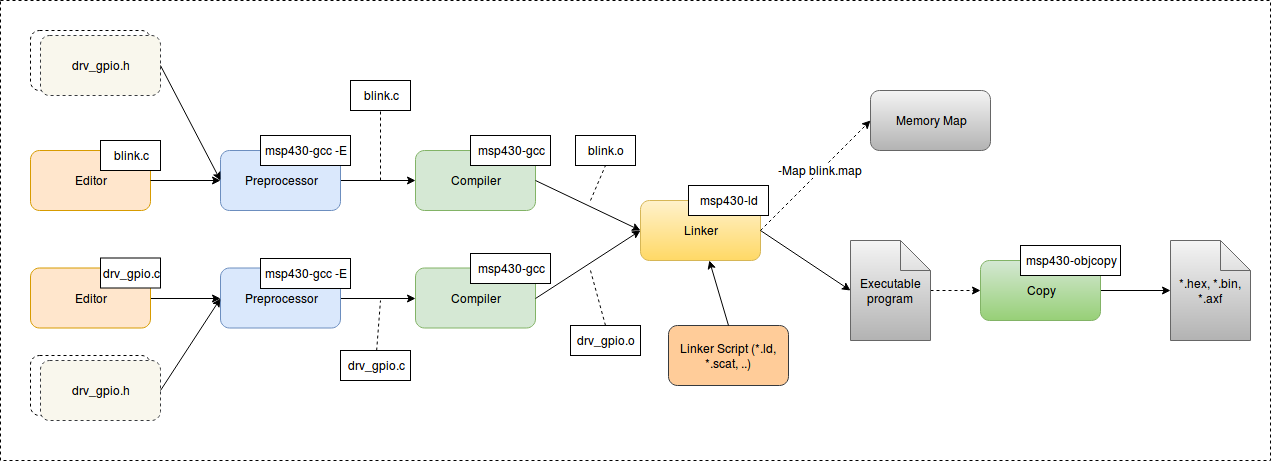
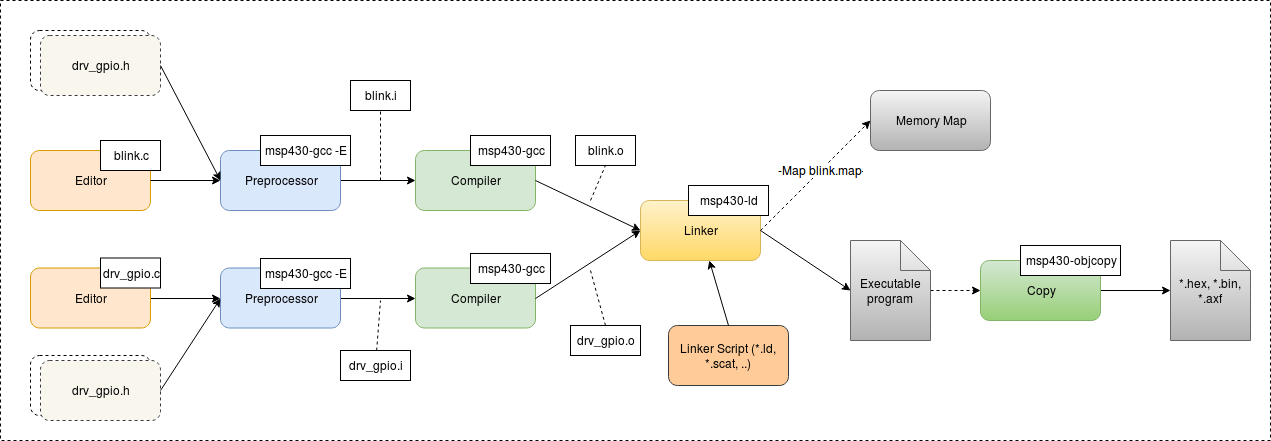
update post

diff --git a/docs/_posts/2018-07-19-compilation-process.md b/docs/_posts/2018-07-19-compilation-process.md
@@ -6,7 +6,7 @@ author: "Nhi Pham"
 
 Understanding the compilation process is helpful for us to analyze and detect the problem with ease in compilation process.
 
-The compilation process is the important things for a beginner in microcontroller programming. Some people don't understand clearly it, that results in they can't fix a problem from the compiling time.
+The compilation process is the important things for a beginner in microcontroller programming. Some people don't understand it with clarify, that results in they can't fix a problem from the compiling time.
 
 ![Compilation process](https://raw.githubusercontent.com/nhivp/msp430-gcc/master/docs/assets/img/compilation_process.png "Compilation process")
 
@@ -19,6 +19,309 @@ The above figure illustrate the compilation process of a simple blinky program.
 └── drv_gpio.h
 ```
 
-To compile the program, the compiler will prefrom the preprocessor step by command ```msp430-gcc -E blink.c``` and ```msp430-gcc -E drv_gpio.c``` (The compiling options for the target are ignored, you only focus on the main command for the compilation process).
+The following is the blink.c program:
+
+```c
+#include <msp430g2553.h>
+
+void main(void)
+{
+    WDTCTL = WDTPW | WDTHOLD;        /* Stop watchdog timer */
+    P1DIR |= 0x40;                   /* Set P1.6 to output direction */
+
+    for(;;)
+    {
+        P1OUT ^= 0x40;                /* Toggle P1.6 using exclusive-OR */
+
+        /* Wait for 200000 cycles */
+        __delay_cycles(200000);
+    }
+}
+```
+
+To compile the program, the compiler will prefrom the preprocessor stage by command ```msp430-gcc -E blink.c -o blink.i``` (The compiling options for the target are ignored, you only focus on the main command for the compilation process).
+
+The output is in the form of preprocessed source code, which is sent to the standard output.
+
+```shell
+nhivp@nhipham:~/mcu/msp430-gcc/demo/blinky/src$ msp430-gcc -E blink.c -o blink.i
+nhivp@nhipham:~/mcu/msp430-gcc/demo/blinky/src$ ll
+total 24
+drwxrwxr-x 2 nhivp nhivp 4096 Th07 22 16:59 ./
+drwxrwxr-x 4 nhivp nhivp 4096 Th07 22 15:24 ../
+-rw-rw-r-- 1 nhivp nhivp  596 Th07 19 21:37 blink.c
+-rw-rw-r-- 1 nhivp nhivp 8719 Th07 22 16:59 blink.i
+```
+
+```c
+# 1 "blink.c"
+# 1 "<built-in>"
+# 1 "<command-line>"
+# 1 "blink.c"
+
+
+# 1 "/usr/lib/gcc/msp430/4.6.3/../../../../msp430/include/msp430g2553.h" 1 3
+# 58 "/usr/lib/gcc/msp430/4.6.3/../../../../msp430/include/msp430g2553.h" 3
+# 1 "/usr/lib/gcc/msp430/4.6.3/../../../../msp430/include/iomacros.h" 1 3
+# 59 "/usr/lib/gcc/msp430/4.6.3/../../../../msp430/include/msp430g2553.h" 2 3
+# 112 "/usr/lib/gcc/msp430/4.6.3/../../../../msp430/include/msp430g2553.h" 3
+# 1 "/usr/lib/gcc/msp430/4.6.3/../../../../msp430/include/in430.h" 1 3
+
+
+
+# 1 "/usr/lib/gcc/msp430/4.6.3/../../../../msp430/include/intrinsics.h" 1 3
+# 47 "/usr/lib/gcc/msp430/4.6.3/../../../../msp430/include/intrinsics.h" 3
+void __nop (void);
+
+void __dint (void);
+
+void __eint (void);
+
+unsigned int __read_status_register (void);
+
+typedef unsigned int __istate_t;
+
+__istate_t __get_interrupt_state (void);
+
+void __write_status_register (unsigned int sr);
+
+void __set_interrupt_state (__istate_t sv);
+
+void *__read_stack_pointer (void);
+
+void __write_stack_pointer (void *sp);
+
+void __bic_status_register (unsigned int bits);
+
+void __bis_status_register (unsigned int bits);
+
+void __bic_status_register_on_exit (unsigned int bits);
+
+void __bis_status_register_on_exit (unsigned int bits);
+
+void *__builtin_frame_address (unsigned int level);
+
+
+void *__builtin_return_address (unsigned int level);
+
+
+
+void __delay_cycles (unsigned long int delay);
+
+unsigned int __swap_bytes (unsigned int v);
+
+unsigned int __get_watchdog_clear_value ();
+
+void __set_watchdog_clear_value (unsigned int v);
+
+void __watchdog_clear ();
+# 5 "/usr/lib/gcc/msp430/4.6.3/../../../../msp430/include/in430.h" 2 3
+# 113 "/usr/lib/gcc/msp430/4.6.3/../../../../msp430/include/msp430g2553.h" 2 3
+# 135 "/usr/lib/gcc/msp430/4.6.3/../../../../msp430/include/msp430g2553.h" 3
+extern volatile unsigned char IE1 __asm__("__" "IE1");
+
+extern volatile unsigned char IFG1 __asm__("__" "IFG1");
+
+extern volatile unsigned char IE2 __asm__("__" "IE2");
+
+extern volatile unsigned char IFG2 __asm__("__" "IFG2");
+# 172 "/usr/lib/gcc/msp430/4.6.3/../../../../msp430/include/msp430g2553.h" 3
+extern volatile unsigned char ADC10DTC0 __asm__("__" "ADC10DTC0");
+
+extern volatile unsigned char ADC10DTC1 __asm__("__" "ADC10DTC1");
+
+extern volatile unsigned char ADC10AE0 __asm__("__" "ADC10AE0");
+
+extern volatile unsigned int ADC10CTL0 __asm__("__" "ADC10CTL0");
+
+extern volatile unsigned int ADC10CTL1 __asm__("__" "ADC10CTL1");
+
+extern volatile unsigned int ADC10MEM __asm__("__" "ADC10MEM");
+
+extern volatile unsigned int ADC10SA __asm__("__" "ADC10SA");
+# 290 "/usr/lib/gcc/msp430/4.6.3/../../../../msp430/include/msp430g2553.h" 3
+extern volatile unsigned char DCOCTL __asm__("__" "DCOCTL");
+
+extern volatile unsigned char BCSCTL1 __asm__("__" "BCSCTL1");
+
+extern volatile unsigned char BCSCTL2 __asm__("__" "BCSCTL2");
+
+extern volatile unsigned char BCSCTL3 __asm__("__" "BCSCTL3");
+# 374 "/usr/lib/gcc/msp430/4.6.3/../../../../msp430/include/msp430g2553.h" 3
+extern volatile unsigned char CACTL1 __asm__("__" "CACTL1");
+
+extern volatile unsigned char CACTL2 __asm__("__" "CACTL2");
+
+extern volatile unsigned char CAPD __asm__("__" "CAPD");
+# 418 "/usr/lib/gcc/msp430/4.6.3/../../../../msp430/include/msp430g2553.h" 3
+extern volatile unsigned int FCTL1 __asm__("__" "FCTL1");
+
+extern volatile unsigned int FCTL2 __asm__("__" "FCTL2");
+
+extern volatile unsigned int FCTL3 __asm__("__" "FCTL3");
+# 470 "/usr/lib/gcc/msp430/4.6.3/../../../../msp430/include/msp430g2553.h" 3
+extern const volatile unsigned char P1IN __asm__("__" "P1IN");
+
+extern volatile unsigned char P1OUT __asm__("__" "P1OUT");
+
+extern volatile unsigned char P1DIR __asm__("__" "P1DIR");
+
+extern volatile unsigned char P1IFG __asm__("__" "P1IFG");
+
+extern volatile unsigned char P1IES __asm__("__" "P1IES");
+
+extern volatile unsigned char P1IE __asm__("__" "P1IE");
+
+extern volatile unsigned char P1SEL __asm__("__" "P1SEL");
+
+extern volatile unsigned char P1SEL2 __asm__("__" "P1SEL2");
+
+extern volatile unsigned char P1REN __asm__("__" "P1REN");
+
+extern const volatile unsigned char P2IN __asm__("__" "P2IN");
+
+extern volatile unsigned char P2OUT __asm__("__" "P2OUT");
+
+extern volatile unsigned char P2DIR __asm__("__" "P2DIR");
+
+extern volatile unsigned char P2IFG __asm__("__" "P2IFG");
+
+extern volatile unsigned char P2IES __asm__("__" "P2IES");
+
+extern volatile unsigned char P2IE __asm__("__" "P2IE");
+
+extern volatile unsigned char P2SEL __asm__("__" "P2SEL");
+
+extern volatile unsigned char P2SEL2 __asm__("__" "P2SEL2");
+
+extern volatile unsigned char P2REN __asm__("__" "P2REN");
+
+extern const volatile unsigned char P3IN __asm__("__" "P3IN");
+
+extern volatile unsigned char P3OUT __asm__("__" "P3OUT");
+
+extern volatile unsigned char P3DIR __asm__("__" "P3DIR");
+
+extern volatile unsigned char P3SEL __asm__("__" "P3SEL");
+
+extern volatile unsigned char P3SEL2 __asm__("__" "P3SEL2");
+
+extern volatile unsigned char P3REN __asm__("__" "P3REN");
+
+extern const volatile unsigned int TA0IV __asm__("__" "TA0IV");
+
+extern volatile unsigned int TA0CTL __asm__("__" "TA0CTL");
+
+extern volatile unsigned int TA0CCTL0 __asm__("__" "TA0CCTL0");
+
+extern volatile unsigned int TA0CCTL1 __asm__("__" "TA0CCTL1");
+
+extern volatile unsigned int TA0CCTL2 __asm__("__" "TA0CCTL2");
+
+extern volatile unsigned int TA0R __asm__("__" "TA0R");
+
+extern volatile unsigned int TA0CCR0 __asm__("__" "TA0CCR0");
+
+extern volatile unsigned int TA0CCR1 __asm__("__" "TA0CCR1");
+
+extern volatile unsigned int TA0CCR2 __asm__("__" "TA0CCR2");
+# 653 "/usr/lib/gcc/msp430/4.6.3/../../../../msp430/include/msp430g2553.h" 3
+extern const volatile unsigned int TA1IV __asm__("__" "TA1IV");
+
+extern volatile unsigned int TA1CTL __asm__("__" "TA1CTL");
+
+extern volatile unsigned int TA1CCTL0 __asm__("__" "TA1CCTL0");
+
+extern volatile unsigned int TA1CCTL1 __asm__("__" "TA1CCTL1");
+
+extern volatile unsigned int TA1CCTL2 __asm__("__" "TA1CCTL2");
+
+extern volatile unsigned int TA1R __asm__("__" "TA1R");
+
+extern volatile unsigned int TA1CCR0 __asm__("__" "TA1CCR0");
+
+extern volatile unsigned int TA1CCR1 __asm__("__" "TA1CCR1");
+
+extern volatile unsigned int TA1CCR2 __asm__("__" "TA1CCR2");
+# 685 "/usr/lib/gcc/msp430/4.6.3/../../../../msp430/include/msp430g2553.h" 3
+extern volatile unsigned char UCA0CTL0 __asm__("__" "UCA0CTL0");
+
+extern volatile unsigned char UCA0CTL1 __asm__("__" "UCA0CTL1");
+
+extern volatile unsigned char UCA0BR0 __asm__("__" "UCA0BR0");
+
+extern volatile unsigned char UCA0BR1 __asm__("__" "UCA0BR1");
+
+extern volatile unsigned char UCA0MCTL __asm__("__" "UCA0MCTL");
+
+extern volatile unsigned char UCA0STAT __asm__("__" "UCA0STAT");
+
+extern const volatile unsigned char UCA0RXBUF __asm__("__" "UCA0RXBUF");
+
+extern volatile unsigned char UCA0TXBUF __asm__("__" "UCA0TXBUF");
+
+extern volatile unsigned char UCA0ABCTL __asm__("__" "UCA0ABCTL");
+
+extern volatile unsigned char UCA0IRTCTL __asm__("__" "UCA0IRTCTL");
+
+extern volatile unsigned char UCA0IRRCTL __asm__("__" "UCA0IRRCTL");
+
+extern volatile unsigned char UCB0CTL0 __asm__("__" "UCB0CTL0");
+
+extern volatile unsigned char UCB0CTL1 __asm__("__" "UCB0CTL1");
+
+extern volatile unsigned char UCB0BR0 __asm__("__" "UCB0BR0");
+
+extern volatile unsigned char UCB0BR1 __asm__("__" "UCB0BR1");
+
+extern volatile unsigned char UCB0I2CIE __asm__("__" "UCB0I2CIE");
+
+extern volatile unsigned char UCB0STAT __asm__("__" "UCB0STAT");
+
+extern const volatile unsigned char UCB0RXBUF __asm__("__" "UCB0RXBUF");
+
+extern volatile unsigned char UCB0TXBUF __asm__("__" "UCB0TXBUF");
+
+extern volatile unsigned int UCB0I2COA __asm__("__" "UCB0I2COA");
+
+extern volatile unsigned int UCB0I2CSA __asm__("__" "UCB0I2CSA");
+# 902 "/usr/lib/gcc/msp430/4.6.3/../../../../msp430/include/msp430g2553.h" 3
+extern volatile unsigned int WDTCTL __asm__("__" "WDTCTL");
+# 950 "/usr/lib/gcc/msp430/4.6.3/../../../../msp430/include/msp430g2553.h" 3
+extern const volatile unsigned char CALDCO_16MHZ __asm__("__" "CALDCO_16MHZ");
+
+extern const volatile unsigned char CALBC1_16MHZ __asm__("__" "CALBC1_16MHZ");
+
+extern const volatile unsigned char CALDCO_12MHZ __asm__("__" "CALDCO_12MHZ");
+
+extern const volatile unsigned char CALBC1_12MHZ __asm__("__" "CALBC1_12MHZ");
+
+extern const volatile unsigned char CALDCO_8MHZ __asm__("__" "CALDCO_8MHZ");
+
+extern const volatile unsigned char CALBC1_8MHZ __asm__("__" "CALBC1_8MHZ");
+
+extern const volatile unsigned char CALDCO_1MHZ __asm__("__" "CALDCO_1MHZ");
+
+extern const volatile unsigned char CALBC1_1MHZ __asm__("__" "CALBC1_1MHZ");
+# 8 "blink.c" 2
+
+void main(void)
+{
+    WDTCTL = (0x5A00) | (0x0080);
+    P1DIR |= 0x40;
+
+    for(;;)
+    {
+        P1OUT ^= 0x40;
+
+
+        __delay_cycles(200000);
+    }
+}
+```
+
+Often this stage is ignored
+
+After passing the preprocessor stage, the compiler will compile the source code (*.c) into objects file (*.o).
 
 To know compilation process with more source code such as assembly code, library, ... You can read more at [link](http://www.bogotobogo.com/cplusplus/embeddedSystemsProgramming_gnu_toolchain_ARM_cross_compiler.php).
